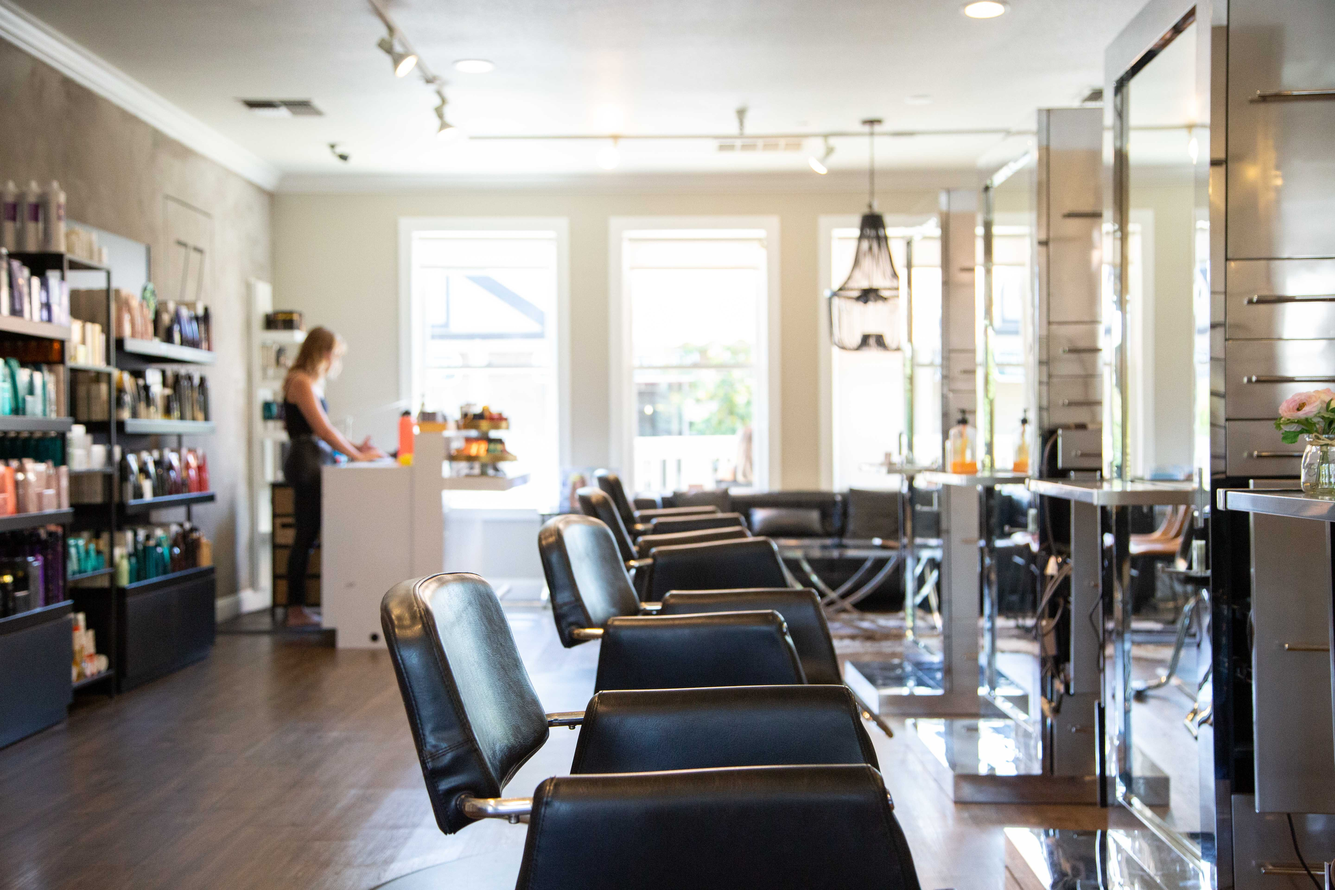
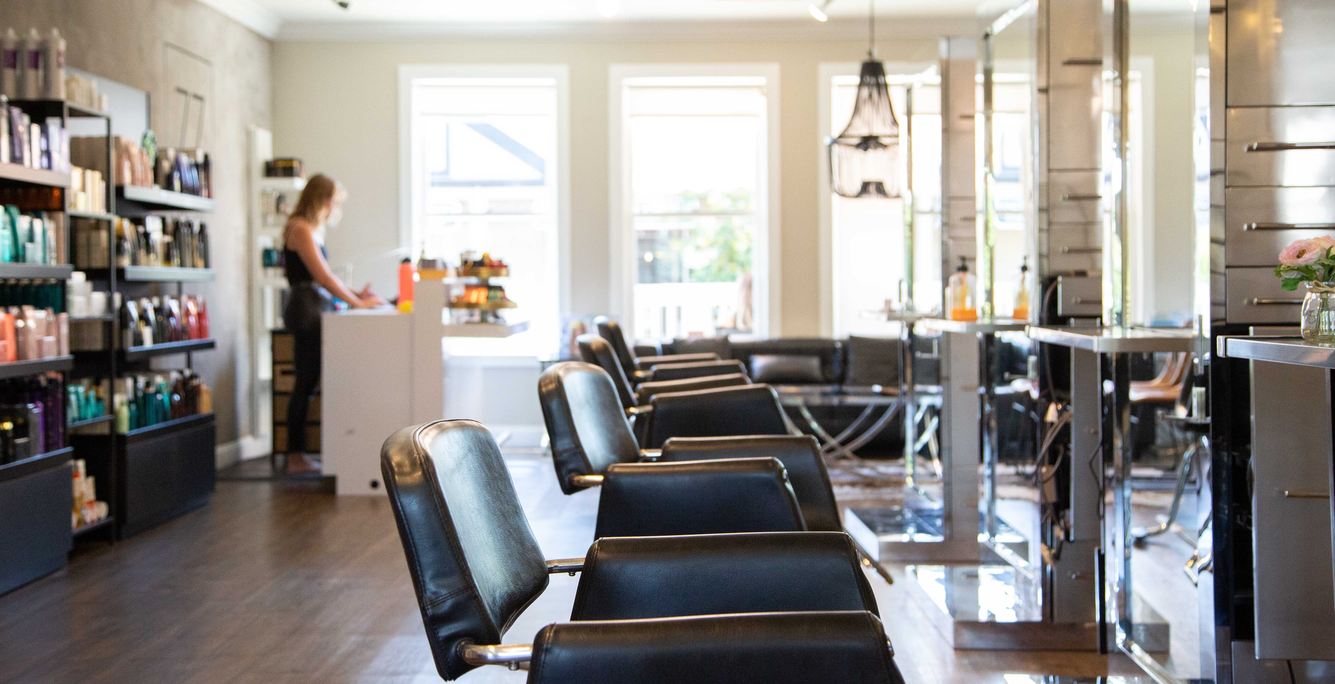
Done with header

diff --git a/style3.css b/style3.css
@@ -2,27 +2,28 @@
     box-sizing: border-box;
 }
 
-body {
+/* body {
     background: url(img/12_col.gif) center top repeat-y;
     background-size: 100%;
-}
+} */
 
-#main {
+#main-content {
     display: grid;
-    width: 90%;
+    width: 100%;
     height: auto;
     margin: 0 auto;
 
     grid-template-columns: repeat(12, 1fr);
     grid-template-rows: auto;
-    column-gap: 2%;
-    row-gap: 20px;
+    column-gap: 2.08%;
+    row-gap: 10px;
 }
 
 header {
     grid-column: 1 / -1;
     background-color: #D6BB9F;
     height: 130px;
+    width: 100%;
 }
 
 #top-of-header {
@@ -81,6 +82,7 @@ div #information-top-of-header {
     margin-left: 80px;
     position: relative;
     top: -10px;
+    z-index: 2;
 }
 
 nav ul {
@@ -100,11 +102,6 @@ nav ul li {
     padding-right: 17px;
 }
 
-nav ul li:last-child {
-    border-right: none;
-    padding-right: 0;
-}
-
 nav ul li a {
     text-decoration: none;
     color: black;
@@ -112,10 +109,223 @@ nav ul li a {
     font-size: 20px;
 }
 
+nav ul li:last-child {
+    border-right: none;
+    padding-right: 0;
+}
+
 nav ul li a:hover {
     border-bottom: solid 3px #FFFFFF;
 }
 
-/*
-font-family: 'Playball', cursive;
-*/
+/* HÄR BÖRJAR STOR BILD & RUBRIK */
+.bild_sida_3 {
+    background: url(img/hairsalon.jpg) center top;
+    background-size: 100%;
+    background-repeat: no-repeat;
+    position: relative;
+    top: -15px;
+    z-index: 1;
+    grid-column: 1 / -1;
+    /* border: solid 2px #D6BB9F; */
+}
+
+.rubrik_sida_3 {
+    font-size: 50px;
+    font-family: 'Playball', cursive;
+    /* color: #f7f4f2; */
+    text-align: center;
+    padding-top: 240px;
+    padding-bottom: 10px;   
+}
+
+.text_sida_3 {
+    /* color: #f7f4f2; */
+    text-align: center;
+    font-family: 'Quicksand', sans-serif;
+    font-size: 20px;
+    font-weight: bold;
+    padding-bottom: 110px;
+}
+
+/* ÖPPETTIDER */
+.sidebar_öppettider {
+    grid-column: 9 / -2;
+    background-color: #58628A;
+    padding: 10px 30px 30px 45px;
+    height: fit-content;
+    margin-top: 20px;
+}
+
+.rubrik_öppettider {
+    font-family: 'Quicksand', sans-serif;
+    text-align: center;
+    color: #f7f4f2;
+    font-weight: bold;
+    padding-right: 20px;
+}
+
+.tabell_öppettider {
+    font-family: 'Quicksand', sans-serif;
+    color: #f7f4f2;
+}
+
+.button_öppettider {
+    margin-top: 20px;
+    padding: 10px 30px;
+    font-family: 'Playball', cursive;
+    font-size: 20px;
+    width: 200px;
+    border: none;
+    border-radius: 4px;
+}
+
+/* AVSKILJARE - KAM */
+.bild_sax {
+    grid-column: 2 / 9;
+}
+
+.bild_kam {
+    width: 290px;
+    padding-left: 100px;
+}
+
+/* PRODUKTER */
+.sidebar_produkter {
+    grid-column: 9 / -2;
+    background-color: #58628A;
+    padding: 10px;
+    height: fit-content;
+}
+
+.rubrik_produkter {
+    font-family: 'Quicksand', sans-serif;
+    font-size: 30px;
+    text-align: center;
+    color: #f7f4f2;
+    padding-bottom: 30px;
+}
+
+div .lanza_logga {
+    margin-left: 35px
+}
+.lanza_logga {
+    width: 200px;
+}
+
+div .loreal_logga {
+    margin-left: 40px
+}
+.loreal_logga{
+    width: 200px;
+}
+
+div .obh_logga {
+    margin-left: 60px
+}
+.obh_logga{
+    width: 150px;
+}
+
+div .ghd_logga {
+    margin-left: 50px
+}
+.ghd_logga{
+    width: 170px;
+}
+
+
+/* HÄR BÖRJAR FOOTER */
+footer {
+    grid-column: 1 / -1;
+    display: grid;
+    grid-template-columns: repeat(12, 1fr);
+    grid-template-rows: auto;
+    column-gap: 2.08%;
+    background-color: #D6BB9F;
+}
+
+.box1 {
+    grid-column: 2 / 5;
+    margin-top: 10px;
+    margin-left: 60px;
+}
+
+.logga_footer {
+    width: 230px;
+    padding-right: 10px;
+}
+
+/* Del om adress i footer */
+.box2{
+    grid-column: 5 / 8;
+    margin-top: 10px;
+    margin-left: 120px;
+    padding-top: 10px;
+}
+
+.box2 h3 {
+    font-family: 'Quicksand', sans-serif;
+    color: #f7f4f2;
+    font-size: 25px;
+}
+
+.adress {
+    font-family: 'Quicksand', sans-serif;
+    color: #f7f4f2;
+    font-size: 18px;
+}
+
+/* Del om kontakt i footer */
+.box3 {
+    grid-column: 8 / -2;
+    margin-top: 10px;
+    padding: 10px;
+    margin-left: 60px;
+}
+
+.box3 h3 {
+    font-family: 'Quicksand', sans-serif;
+    color: #f7f4f2;
+    font-size: 25px;
+}
+
+.kontakt {
+    font-family: 'Quicksand', sans-serif;
+    color: #f7f4f2;
+    font-size: 18px;
+}
+
+/* Del om sociala medier i footer */
+.box4 {
+    grid-column: 4 / 10;
+    margin-top: 10px;
+    padding: 10px;
+    text-align: center;
+    align-items: center;
+}
+
+.logga_mail_footer {
+    width: 50px;
+}
+
+.logga_fb_footer {
+    width: 50px;
+}
+
+.logga_insta_footer {
+    width: 50px;
+}
+
+/* Del om upphovsrätt i footer */
+.box5 {
+    grid-column: 1 / -1;
+    background-color: #574C40;
+    margin-top: 25px;
+}
+
+.upphovsrätt {
+    color: #f7f4f2;
+    font-family: 'Quicksand', sans-serif;
+    text-align: center;
+}

diff --git a/page3.html b/page3.html
@@ -48,13 +48,12 @@
             </div>
         </header>
 
-        <div class="bild_sida_2">
-            <div class="svart_ruta_sida_2">
-                <h1 class="rubrik_sida_2">Behandling & Priser</h1>
-                <p class="text_sida_2">Vår vision är att erbjuda dig som kund en behandlingsmeny <br>
-                    som inspirerar dig och ger dig en bra överblick över vårt utbud. <br>
-                    Vi följer Läkemedelsverkets rekommendation att inte färga <br>
-                    håret på personer under 16 år med permanent färg.</p>
+        <div class="bild_sida_3">
+            <div class="svart_ruta_sida_3">
+                <h1 class="rubrik_sida_3">Kontakt & Bokning</h1>
+                <p class="text_sida_3">Här nedan hittar du all information gällande kontaktuppgifter och hur ni hittar
+                    och. Här finner ni även hur bokningar pch avbokningar går till, ni är även välkomna att ställa
+                    direkta frågor i kontaktformuläret längst ned på sidan.</p>
             </div>
         </div>
 
